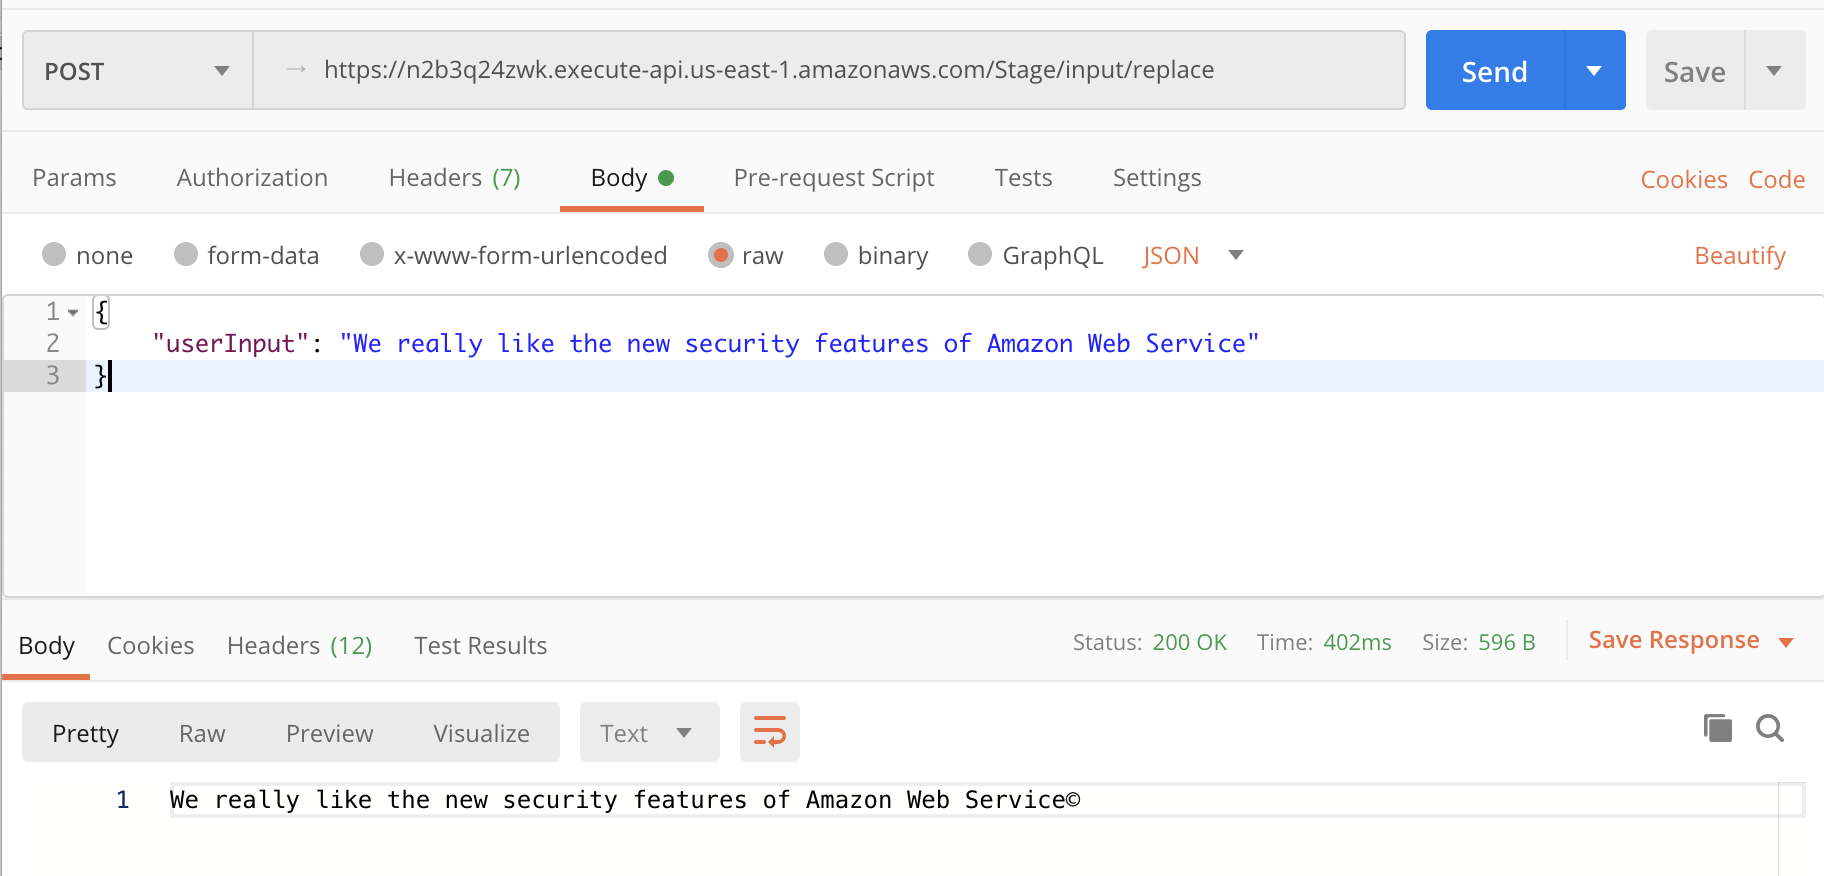
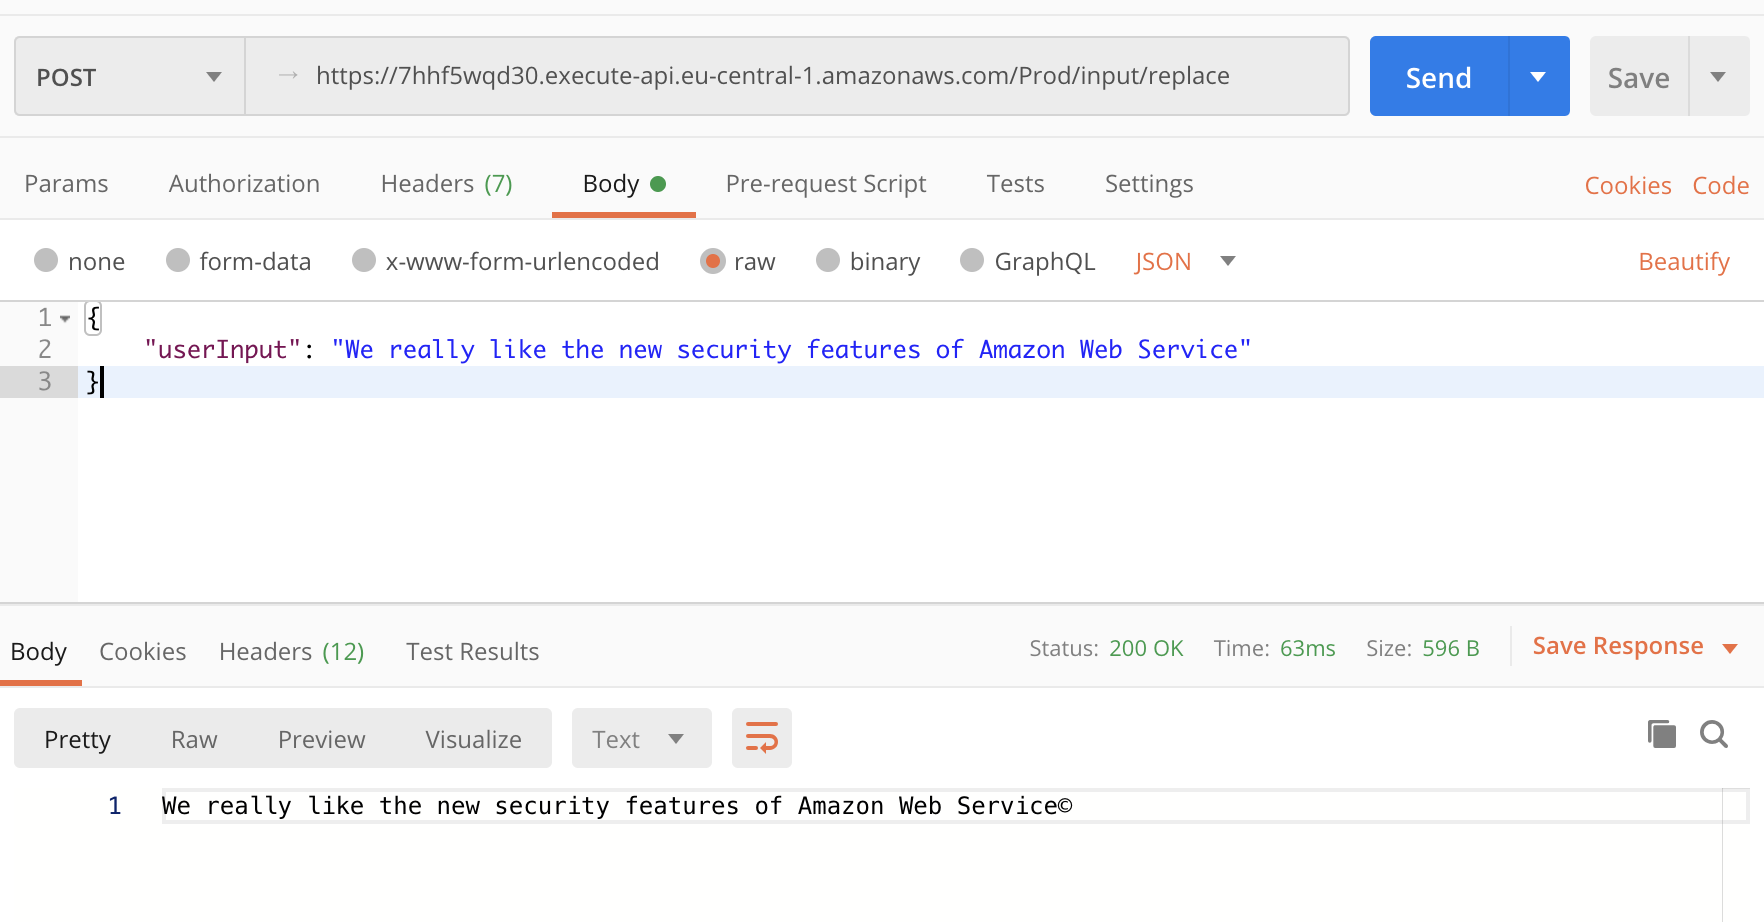
Refactor and updating Read me

diff --git a/README.md b/README.md
@@ -1,112 +1,171 @@
 # AWS Serverless springboot API
-This project consists of a Java Spring boot application utilizing the power of AWS SAM(Serverless Application Model), that accepts input as String and find ("Google", "Oracle", "Microsoft", "Amazon", "Deloitte") and add (© with the strings)for certain words and outputs the result deployed on AWS.
+This project consists of a Java Spring boot application utilizing the power of AWS SAM(Serverless Application Model), which accepts an input as a String request , for example ("Google", "Oracle", "Microsoft", "Amazon", "Deloitte") and append (© with the strings)for those sending back the response to the API request from AWS.
 
-
-#### High level Design
-![alt text](images/high-level-architecture.png)
-
+## How to Test the existing hosted API?
 ### Exposed API
-##### 1) https://base_url/Stage/input/replace : This is a post call
+#### 1) `https://<base-uri>/Prod/input/replace` : This is a post call for the functionality of the application
 Body (Json): 
 ```
 {
-    "userInput": "We really like the new security features of Amazon Web Service"
+    "userInput": "We really like the new security features of Amazon"
 }
 ```
 
-Sample request from Postman:
+*For Reference*: Sample request from Postman:
+
 ![alt text](images/postman-sample-post-request.png)
 
-Example input: 	“We really like the new security features of Amazon Web Service”. 
-Expected output: “We really like the new security features of Amazon Web Service©”.
+- Example input: 	“We really like the new security features of Amazon Web Service”. 
 
-##### 2) https://base_url/Stage/healthcheck.html: This is a get call
+- Expected output: “We really like the new security features of Amazon Web Service©”.
+
+#### 2) `https://<base-uri>/Prod/healthcheck.html`: This is a get call for checking the health of the API service
 Expected output: Health check: OK
 
 ![alt text](images/sample-get-request.png)
 
-### Serverless Application Model(SAM)
+---
+**Note:**
+Replace the <base-uri> : 7hhf5wqd30.execute-api.eu-central-1.amazonaws.com
+---
+
+## Design Consideration
+
+Here I will describe the design decision taken into consideration for hosting the API in AWS along with CICD implementation.
+
+### High level Design Diagram
+![alt text](images/high-level-architecture.png)
+
+#### Serverless Application Model(SAM)
     I have choosen [Serverless](https://aws.amazon.com/serverless/sam/) model for the deployment of the service because of following reasons:
-    - Since its a small web service and doesn't require a lot of AWS services.
+    - As its a small web service and doesn't require a complex deployment pattern.
     - This is efficient from Cost perspective since the resources for lambda is only pay what you use(No idle capacity).
-    - Integrity security model for code
-    - No overhead of maintaining the servers: reduced operational cost
-    - Flexible scaling
-    - Write less infra-structure-as-code: Using SAM reduces number of lines of code for infra drastically and do most of it in background. 
-    For Example:serverless-cloudformation-app.yaml has only 27 lines of code and the exapnded version of same template has 83 lines of code.  
+    - Integrity security model for code.
+    - No overhead of maintaining the servers: reduced operational cost.
+    - Flexible scaling.
+    - Write less infra-structure-as-code: SAM reduces number of lines of code for infra drastically and does most of the provision with an expanded template in the background. For example:serverless-cloudformation-app.yaml has only 27 lines of code and the exapnded version of same template has 83 lines of code.  
     - This results in less time for implementation which results in fast and cost effective deliverables.
 
-
 #### AWS Lambda Function:
-    - AWS Lambda is a serverless compute service that lets you run code without provisioning or managing servers, creating workload-aware cluster scaling logic, maintaining event integrations, or managing runtimes.
-      With Lambda, you can run code for virtually any type of application or backend service - all with zero administration.  
-    - Using Lambda reduce the cost of infra dramatically. As Lambda is event driven. Pay for the compute time you consume, so we never pay for over-provisioned infrastructure.
-    - AWS Lambda automatically scales application by running code in response to each event.  
-    - Can optimize the code execution time by choosing the right memory size for your function 
-    - Serve dynamic content of the application Like: Data which changes according to the  Business logic
+    - AWS Lambda is a serverless compute service that lets you run the code without provisioning or managing servers, creating workload-aware scaling logic, maintaining event integrations thus managing runtimes on its own.
+    - With Lambda, you can run code for virtually any type of application or backend service - all with zero administration.  
+    - Lambda reduces the cost of infra drasatically. Since Lambda is event driven, you pay for the compute time consumed, so we never pay for over-provisioned infrastructure.
+    - AWS Lambda automatically scales application by running code in response to each event - automated scaling operation.  
+    - Optimizes the code execution time by choosing the right memory size for your function 
+    - Serves dynamic content of the application example: Data which changes according to the  Business logic
 
+#### AWS API Gateway:
+    - Amazon API Gateway is a fully managed service that makes it easy for developers to create, publish, maintain, monitor, and secure APIs at any scale. APIs act as the "front door" for applications to access data, business logic, or functionality from your backend services.
+    - Using API Gateway, you can create RESTful APIs and WebSocket APIs that enable real-time two-way communication applications
+    - Run multiple versions of the same API simultaneously with API Gateway, allowing you to quickly iterate, test, and release new versions. 
+    - Throttle traffic and authorize API calls to ensure that backend operations withstand traffic spikes and backend systems are not unnecessarily called.
+    - API Gateway provides a tiered pricing model for API requests. With an API Requests price as low as $0.90 per million requests at the highest tier, you can decrease your costs as your API usage increases per region across your AWS accounts.
+            
 #### Serverless stack
-Serverless Stack includes following objective
+Serverless Stack includes following AWS services:
+
 ![alt text](images/aws-designer-stack.png)
-    - Creates one API Gateway using RestApi with two endpoints:
-        - /<project-context-part>
-        - /healthcheck
-    - LambdaRole containing the policies to use API Gateway
+
+    - One API Gateway comprising of RestApi with two endpoints:
+        - `/<project-context-part>`
+        - `/healthcheck`
+    - LambdaRole with the policy attached to use API Gateway
     - UserInput Lambda function.
     - Healthcheck Lambda Function.
 
-### Codebuild
+### Codebuild(CICD)
 AWS [CodeBuild](https://docs.aws.amazon.com/codebuild/latest/userguide/welcome.html) is a fully managed continuous integration service that compiles source code, runs tests, and produces software packages that are ready to deploy. With CodeBuild, you don’t need to provision, manage, and scale your own build servers. The agent is automatically provisioned as container by AWS.
 
-#### CodeBuild stack
+#### CodeBuild Cloudformation stack
 This stack includes the following objectives:
 
 ![alt text](images/codebuild-stack.png)
 
-    - Creates a S3 bucket which will be used to contain the CloudFormation package.
+    - Creates a S3 bucket which will be used to store the CloudFormation package.
     - buildspec.yml stage in the build part performing activities.
-      - Maven clean package: This creates the Java package as jar.
-      - AWS CodeBuild role to carry CodeBuild operation,
-      - AWS CloudFormation package: This will package the CloudFormation stack expanding the Serverless along with source code as jar and push to S3 bucket created by CodeBuild stack.
-      - AWS CloudFormation deploy: This will deploy the stack from an output of package to deploy the Serverless infra.
+        - Install aws-cli
+        - Install maven
+        - Maven clean package: This creates the Java package as jar.
+        - AWS CodeBuild role to carry CodeBuild operation,
+        - AWS CloudFormation package: This will package the CloudFormation stack     expanding the Serverless along with source code as jar and push to S3      bucket created by CodeBuild stack.
+        - AWS CloudFormation deploy: This will deploy the stack from an output of    package to deploy the Serverless infra.
 
+#### Simple Storage Service (S3):
+    - Amazon Simple Storage Service (Amazon S3) is an object storage service that offers industry-leading scalability, data availability, security, and performance. 
+    - Scale your storage resources up and down to meet fluctuating demands, without upfront investments or resource procurement cycles. Amazon S3 is designed for 99.999999999% (11 9’s) 
+      of data durability because it automatically creates and stores copies of all S3 objects across multiple systems. 
+    - Store your data in Amazon S3 and secure it from unauthorized access with encryption features and access management tools. S3 is the only object storage service that allows you to 
+      block public access to all of your objects at the bucket or the account level with S3 Block Public Access. 
+    - S3 gives you robust capabilities to manage access, cost, replication, and data protection. 
+    - S3 Intelligent-Tiering optimizes storage costs by automatically moving objects between four access tiers when access patterns change. There are two low latency access tiers optimized 
+      for frequent and infrequent access to help you save up to 40% on storage costs, and two opt-in archive access tiers designed for asynchronous access with cost savings up to 95% for objects that are rarely accessed. 
+ 
+###  Scalability and Reliability of the solution:
+Cloud solution should ideally be build as `build today,serve tomorrow as well` and thus we need to consider the scalability and reliability in the application design. We will discuss certain points for this option which we have considered in the application design as well.
+- **Modularity**: Since the consideration is taken to go ahead with Serverless application and thus the application needs to follow a modular structure which can be independent small units and used anywhere.
+- **Horizontal Scaling**: Since we are using AWS Lambda function, it has a property by default. The first time you invoke your function, AWS Lambda creates an instance of the function and runs its handler method to process the event. When the function returns a response, it stays active and waits to process additional events. If you invoke the function again while the first event is being processed, Lambda initializes another instance, and the function processes the two events concurrently. As more events come in, Lambda routes them to available instances and creates new instances as needed. When the number of requests decreases, Lambda stops unused instances to free up scaling capacity for other functions.
+  This feature of Lambda can be used to do Horizontal scaling and thus provide a scalable and reliable solution.
+        
+#### Infrastructure as code:
+##### Since we are designing the solution on AWS, we would use the native solution as CloudFormation for infrastructure as code.
 
-## How to deploy and use the project
+- **CloudFormation**: [AWS CloudFormation](https://aws.amazon.com/cloudformation/) is a service that helps you model and set up your Amazon Web Services resources so that you can spend less time managing those resources and more time focusing on your applications that run in AWS. You create a template that describes all the AWS resources that you want (like Amazon EC2 instances or Amazon RDS DB instances), and CloudFormation takes care of provisioning and configuring those resources for you. You don't need to individually create and configure AWS resources and figure out what's dependent on what; CloudFormation handles that. The following scenarios demonstrate how CloudFormation can help.
+  - Simplify infrastructure management
+  - Quickly replicate your infrastructure
+  - Easily control and track changes to your infrastructure
+
+## How to deploy and use the project?
 
 ### Pre-requisite
-- AWS account
-- CloudFormation role with the policy attached named file `cf-role-policy.json`
+- AWS account.
+- AWS Cli installed  in local to run codebuild cloudformation template.
+- CloudFormation role with the policy attached named file `cf-role-policy.json`.
+- Git Account
 
 ### Steps to follow
 
-Step-1: Share the associate git username (who want to check/see my code repository) with me via mail viplavsingh1209@gmail.com or on my mobile number 0630350408 to give the access.
+**Step-1**: Clone the repository:
+Code Repository:          
+```
+git clone https://github.com/viplav12/aws-serverless-java-sprintboot-application.git
+```
+**Step-2**: Push this repo in your git repo (This step is for using GITHUB auth token for deploying codebuild-cloudformation.yaml) 
 
-Step-2: Deploy cloudformation for serverless application i.e codebuild-cloudformation.yaml in regions eu-central-1
-        - Use all the default values 
+**Step-3**: Paste your git repo url to codebuild-cloudformation.yaml in "SourceLocation" (line number 10)
+![alt text](images/git-repo-ref.png)
+
+**Step-4**: Deploy cloudformation code build `codebuild-cloudformation.yaml` in regions eu-central-1
+   - Use all the default values except (GitHubToken).   
+     Follow below steps to generate GitHubToken:
+        - Generate Personal Access Token (https://github.com/settings/tokens) ![alt text](images/pat-1.png)    
+        - Select below shown scope of access token.
         
-Step-3: To trigger codebuild and deploy serverless-cloudformation-template.yaml: 
-         - Commit any small change in the code or
-         - Manually trigger code build
-
-Step-4: Copy the uri from cloudformation output
-        Test API-1: https://copied-uri/Stage/healthcheck.html (get call)
-        Test API-2: https://copied-uri/Stage/input/replace (post call)
-                    Body of post call (json): 
+        ![alt text](images/pat-scope.png)
+        
+        - Copy the generated PAT token 
+        - Paste this PAT token in *GitHubToken*
+        
+        ![alt text](images/cf-githubtoken.png)
+        
+     - If using AWS cli, below command can be used
+        ```
+            aws cloudformation create-stack --stack-name codebuild-serverless --template-url codebuild-cloudformation.yaml
+        ```    
+         
+**Step-5**: To trigger codebuild and deploy serverless-cloudformation-template.yaml: 
+    - Push any small change in your git hub code repo (Trigger is added in AWS CodeBuild) or
+    - Manually trigger code build
+    
+**Step-6**: Copy the API uri from CloudFormation output
+        Test API-1: https://copied-uri/healthcheck.html (get call)
+        Test API-2: https://copied-uri/input/replace (post call)
+                   Example: Body of post call (json): 
                     ```
                     {
                         "userInput": "We really like the new security features of Amazon Web Service"
                     }
                     ```
                     
-Code Repository:          
-```
-https://github.com/viplav12/aws-sam-simple-spriboot-app.git
-```
-To run the cloudformation from AWS CLI
-```
-aws cloudformation create-stack --stack-name codebuild-serverless --template-url codebuild-cloudformation.yaml
-```
-
 ### Disaster Recovery
 Consideration: If we have registered domain and using AWS Route-53 
 
@@ -119,7 +178,9 @@ Deploy infrastructure in two regions but keep one region inactive with respect t
 #### Active-Active Scenario
 
 ![alt text](images/active-active-scenario.png)
-
-## TODOs
-- Register DNS Zone and configure Route53 with CNAME to two API in different region based on latency to cater active-active scenario,draft template is with the code `todo-route53-tmpl.yaml`
+ 
+ Reference: 
+ [AWS SAM](https://docs.aws.amazon.com/serverless-application-model/latest/developerguide/what-is-sam.html) \
+ [AWS Lambda](https://aws.amazon.com/lambda/) \
+ [AWS API Gateway](https://aws.amazon.com/api-gateway/) 
  
